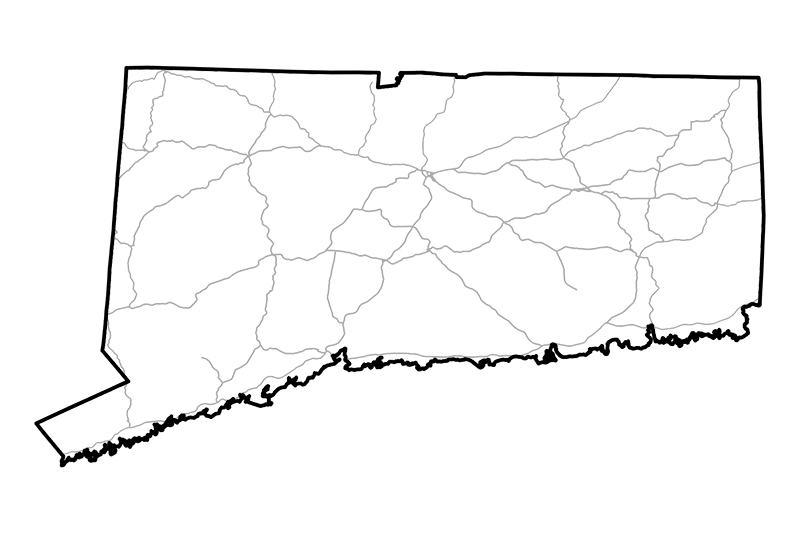
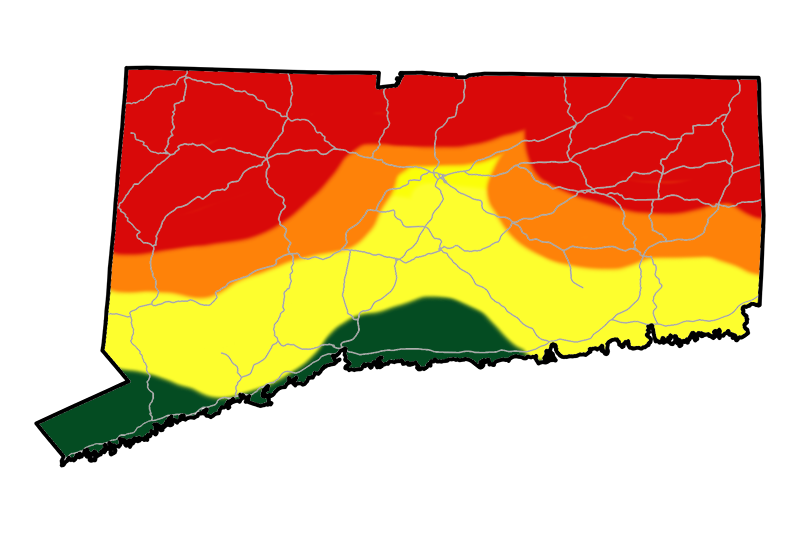
new phases

diff --git a/map/readme.MD b/map/readme.MD
@@ -1,3 +1,5 @@
+Estimated time periods for peak foliage in Connecticut
+
 phase1: September 17 - September 20
 phase2: September 21 - September 25
 phase3: September 26 - September 29
@@ -9,6 +11,15 @@ phase8: October 24 - October 30
 phase9: October 31 - November 6
 phase10: November 7 - November 14
 phase11: Past Peak
+
+Colors:
+
+Very low - green: rgb(4,76,34)
+Low - yellow: rgb(251,254,9)
+Moderate - orange: rgb(254,130,9)
+Peak - red: rgb(217,9,9)
+Past peak - maroon: rgb(82,12,15)
+
 
 http://www.depdata.ct.gov/forestry/foliage/foliagemap.htm
 
